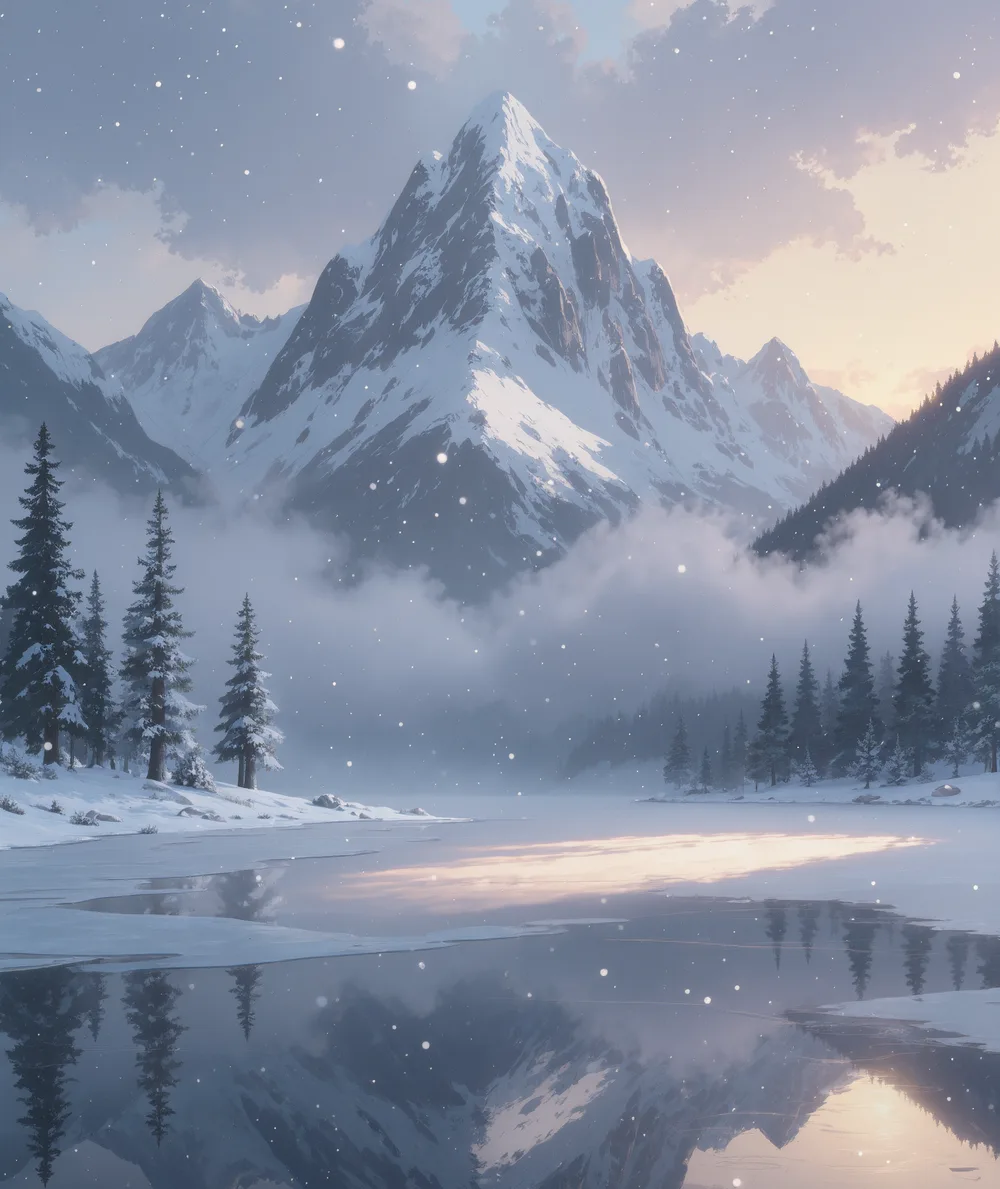
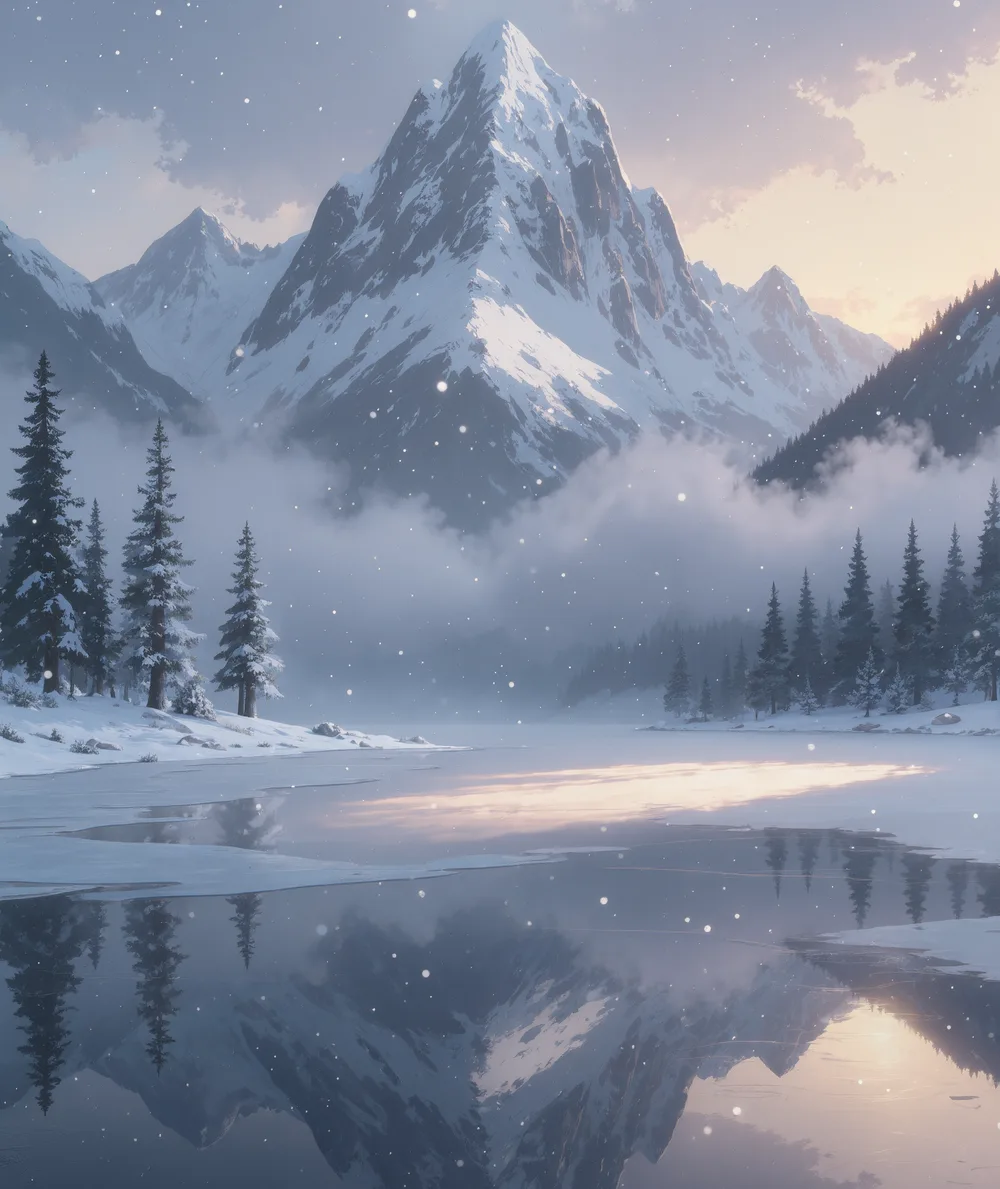
Cartes : la fiche zoome moins l'illustration, et Écho Lointain montre son reflet
L'effet de relief grossissait l'image de 12 % pour la faire glisser sous
le cadre : le haut et le bas disparaissaient, et le reflet d'Écho Lointain
avec. 8 % suffisent au mouvement. Écho Lointain est recadré plus bas.

diff --git a/app/globals.css b/app/globals.css
@@ -15682,8 +15682,11 @@ a.adm-tuile:hover .adm-tuile-fleche {
 .carte-3d[data-actif] .carte-3d-corps {
   transition: transform 0.08s linear;
 }
+/* Juste assez grande pour glisser sans montrer de bord : à 1,12, la fiche
+   rognait le haut et le bas de l'image — le reflet d'Écho Lointain y
+   disparaissait. */
 .carte-3d .cadre-vecteur {
-  transform: scale(1.12)
+  transform: scale(1.08)
     translate(calc((var(--mx) - 0.5) * -9%), calc((var(--my) - 0.5) * -9%));
   transition: transform 0.6s cubic-bezier(0.2, 0.8, 0.3, 1);
 }
